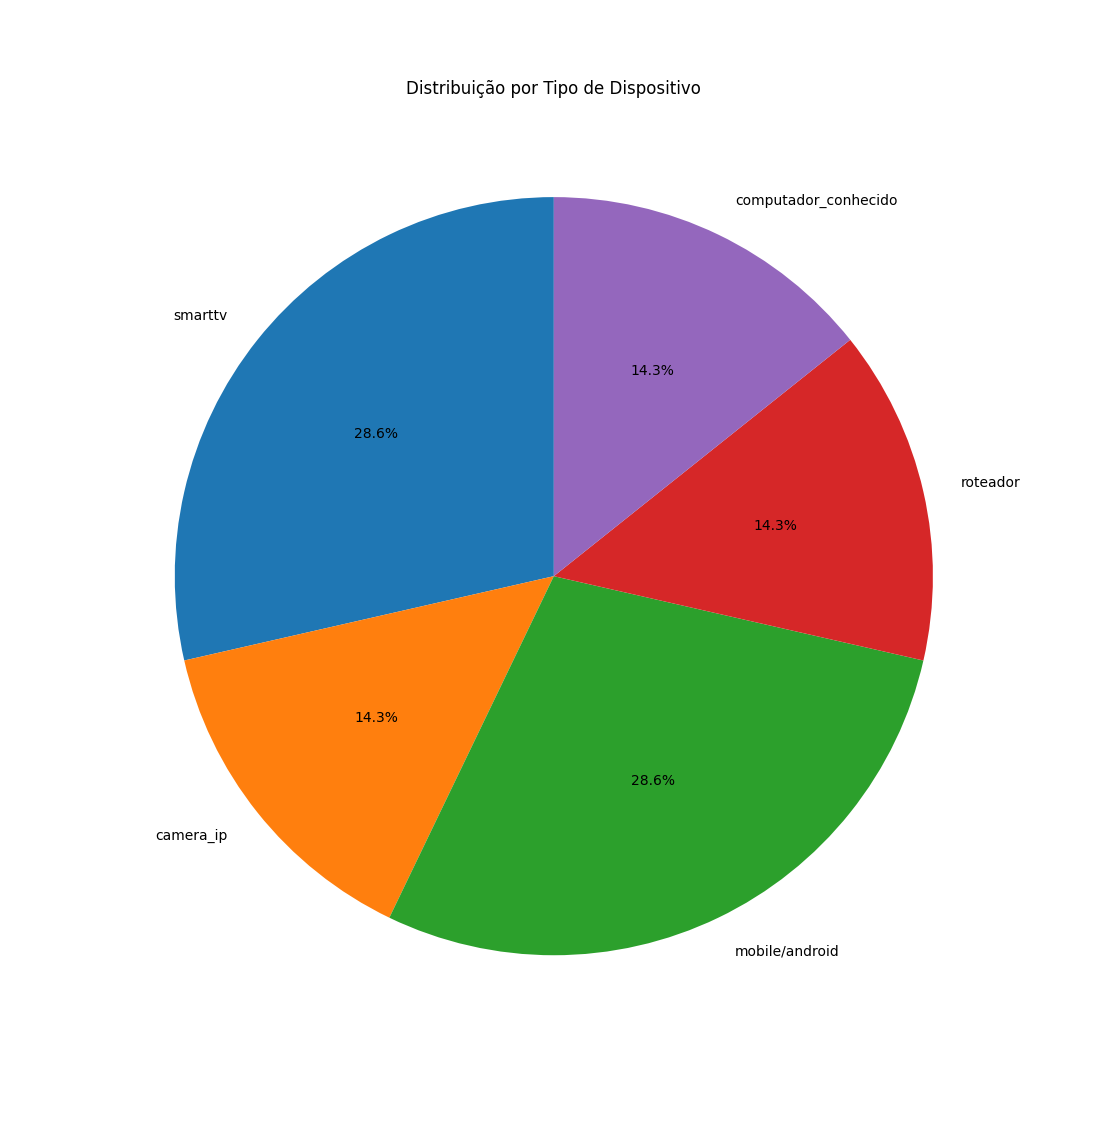
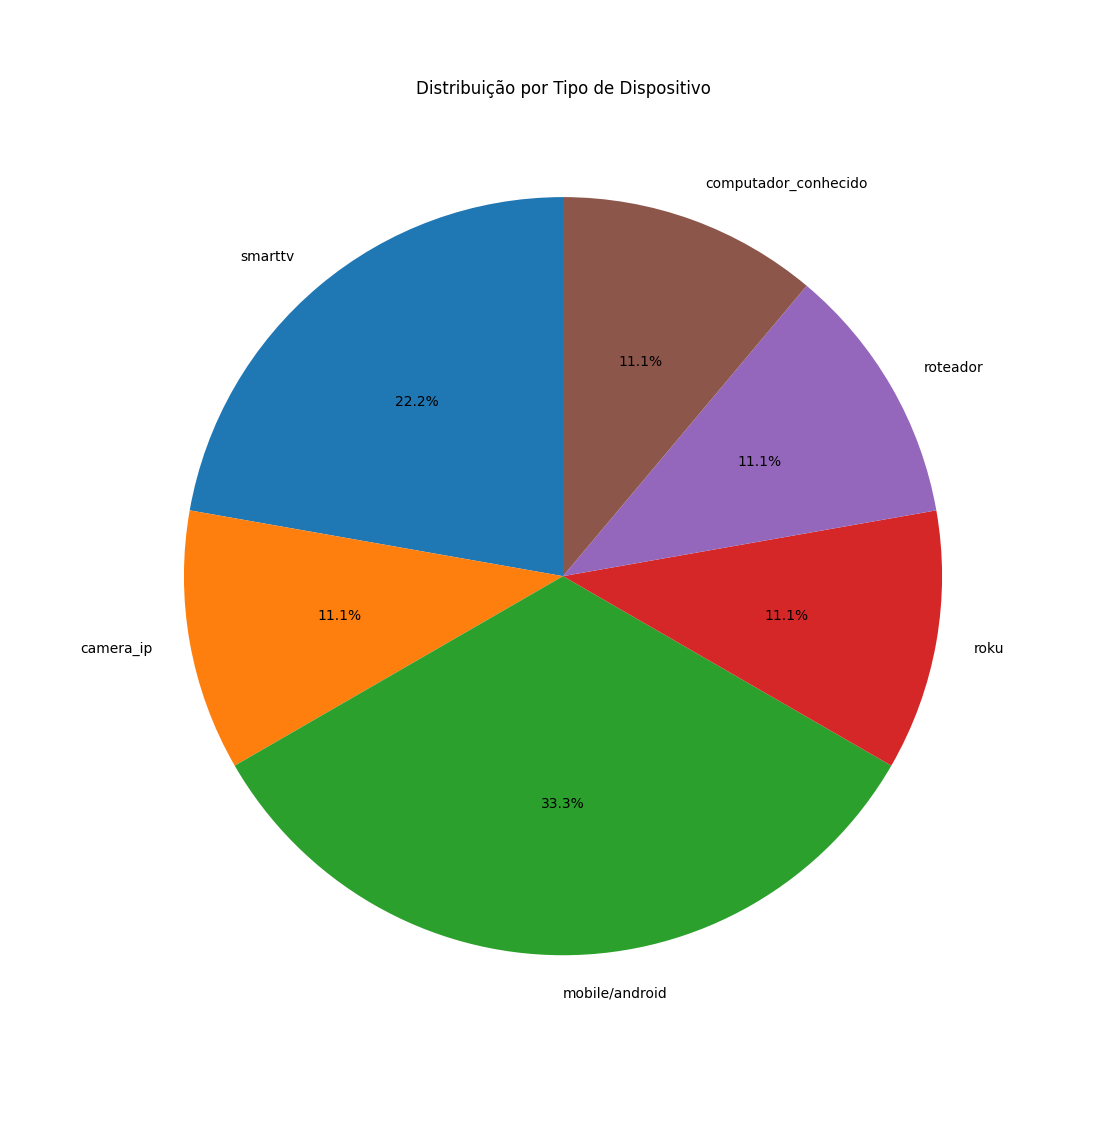
feat: Identificação do Roku Streaming Stick e melhorias na classificação
- Adicionada detecção do Roku via MAC 60:92:c8 e porta 8060
- Dispositivo 192.168.1.72 agora classificado como 'roku'
- Zero dispositivos desconhecidos na rede (8 dispositivos identificados)
- Melhorias no classifier.py para priorizar detecção do Roku

diff --git a/core/classifier.py b/core/classifier.py
@@ -21,6 +21,13 @@ def classificar_dispositivo(hostname="", vendor="", ip="", mac="", open_ports=No
     vendor = (vendor or "").lower()
     ip = ip or ""
     mac = mac or ""
+
+    # =========================
+    # ROKU (prioridade máxima - identificação por MAC ou porta)
+    # =========================
+    if mac.startswith('60:92:c8') or 8060 in open_ports:
+        return "roku", 1
+
     
     # =========================
     # Amino (set-top box / TV Box)
@@ -132,6 +139,22 @@ def classificar_dispositivo(hostname="", vendor="", ip="", mac="", open_ports=No
     # =========================
     if vendor == "unknown" and (5353 in open_ports or 5555 in open_ports):
         return "mobile/android", 2
+
+    # =========================
+    # Prefixos MAC específicos (Android/Dispositivos móveis)
+    # =========================
+    if mac.startswith(('92:dd:a1', '2a:fa:67')):
+        return "mobile/android", 2
+    # =========================
+    # Roku (porta 8060 aberta)
+    # =========================
+    if 8060 in open_ports:
+        return "roku", 2
+    
+    # Prefixo MAC Roku
+    if mac.startswith('60:92:c8'):
+        return "roku", 2
+
     
     # =========================
     # Fallback
